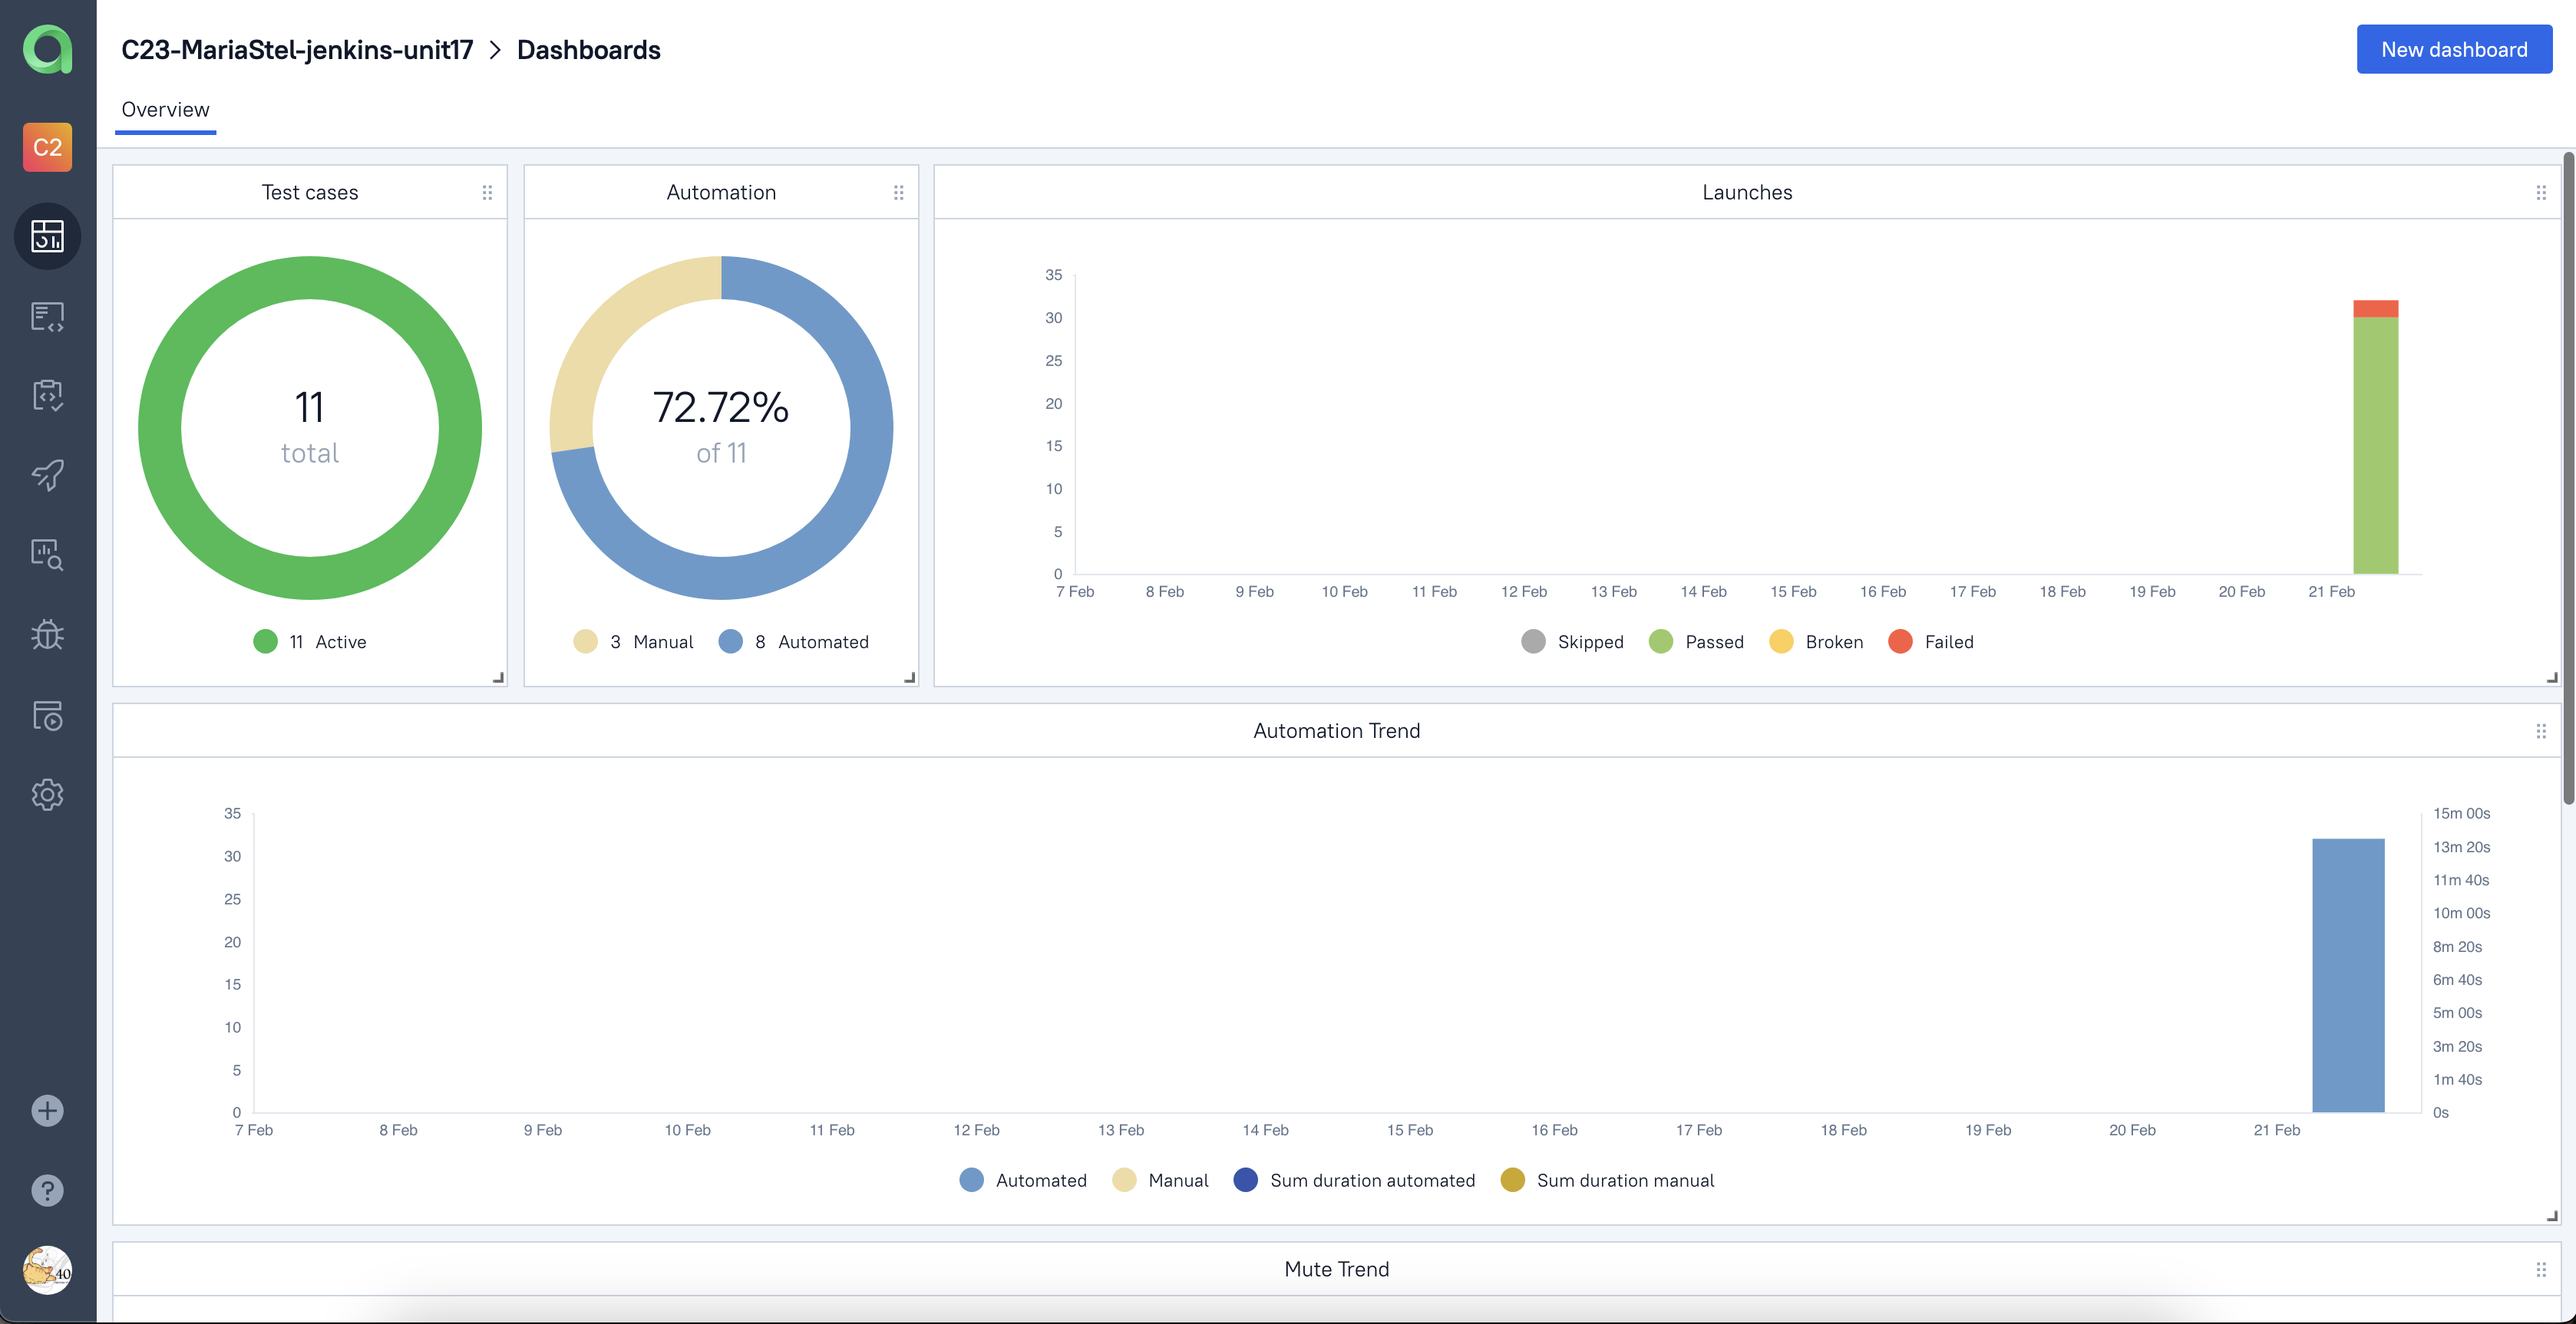
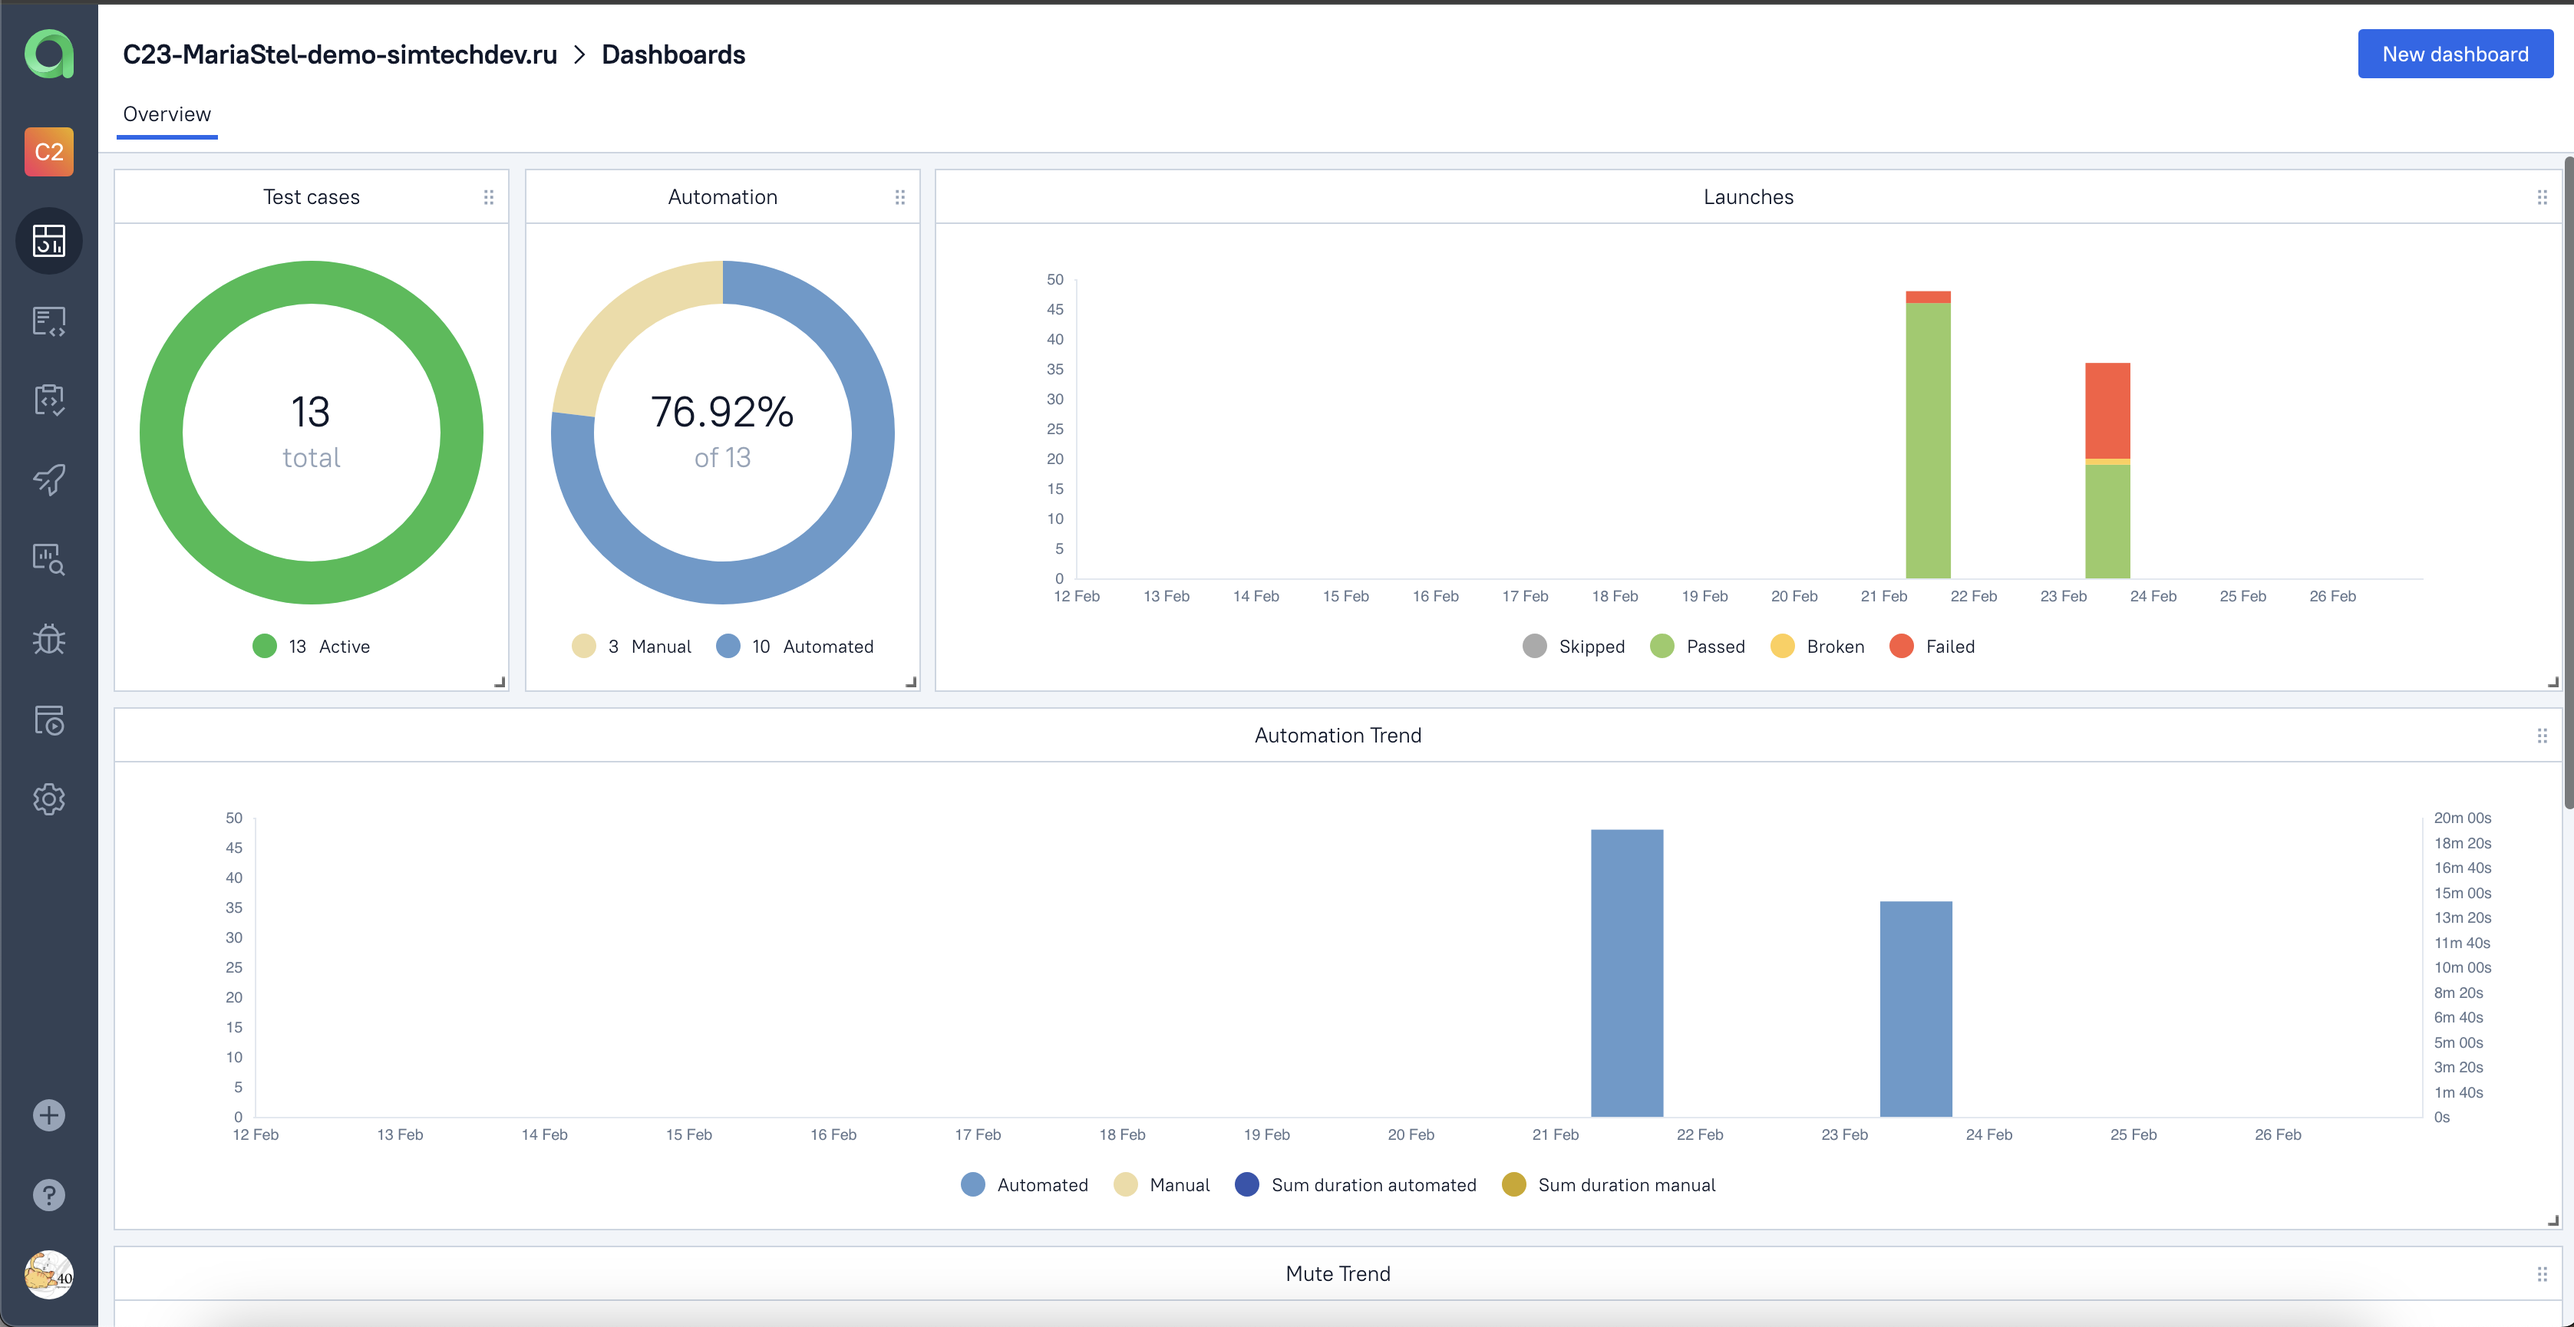
changed readme.md

diff --git a/README.md b/README.md
@@ -40,6 +40,15 @@ ____
 <a href="https://www.atlassian.com/ru/software/jira/"><img src="images/logo/Jira.svg" width="50" height="50"  alt="Jira"/></a>  
 </p>
 
+- Язык для написания тестов : [Java](https://www.java.com/ru/)
+- Фреймворк для модульного тестирования : [Junit5](https://github.com/junit-team/junit5)
+- Система автоматической сборки : [Gradle](https://github.com/gradle)
+- Удаленный запуск с выбором параметров для тестов реализован при помощи :  [Jenkins](https://www.jenkins.io/)
+- Отчеты о пройденных тестах формируются при помощи : [Allure](https://github.com/allure-framework)
+- Так же отчеты о тестировании отправляются в мессенджер при помощи <code>Telegram</code> бота
+- Реализована интеграция  с [Allure TestOps](https://qameta.io/)
+- Реализована интеграция с [Jira Software](https://www.atlassian.com/software/jira)
+
 ____
 <a id="cases"></a>
 ## <a name="Примеры автоматизированных тест-кейсов">**Примеры автоматизированных тест-кейсов:**</a>
@@ -56,10 +65,10 @@ ____
 
 ____
 <a id="jenkins"></a>
-## <img alt="Jenkins" height="25" src="images/logo/Jenkins.svg" width="25"/></a><a name="Сборка"></a>Сборка в [Jenkins](https://jenkins.autotests.cloud/job/C23-MariaStel-jenkins-unit17)</a>
+## <img alt="Jenkins" height="25" src="images/logo/Jenkins.svg" width="25"/></a><a name="Сборка"></a>Сборка в [Jenkins](https://jenkins.autotests.cloud/job/C23-MariaStel-demo-simtechdev.ru/)</a>
 ____
 <p align="center">  
-<a href="https://jenkins.autotests.cloud/job/C23-MariaStel-jenkins-unit17/"><img src="images/screen/jenkins.png" alt="Jenkins" width="950"/></a>  
+<a href="https://jenkins.autotests.cloud/job/C23-MariaStel-demo-simtechdev.ru/"><img src="images/screen/jenkins.png" alt="Jenkins" width="950"/></a>  
 </p>
 
 
@@ -68,6 +77,7 @@ ____
 - *browser (браузер, по умолчанию chrome)*
 - *browserVersion (версия браузера, по умолчанию 100.0)*
 - *browserSize (размер окна браузера, по умолчанию 1920x1080)*
+- *task (выбор группы тестов для запуска, по умолчанию все: test)*
 - *baseUrl (адрес тестируемого веб-сайта)*
 - *remoteUrl (логин, пароль и адрес удаленного сервера Selenoid)*
 
@@ -81,12 +91,12 @@ gradle clean test
 
 ***Удалённый запуск через Jenkins:***
 ```bash  
-clean X5Group_test
-"-Dbrowser=${browser}"
-"-DbrowserVersion=${browserVersion}"
-"-DbrowserSize=${browserSize}"
-"-DUrl=${baseUrl}"
-"-Dselenoid=${selenoid}"
+clean ${TASK}
+-Dbrowser=${browser}
+-DbrowserVersion=${browserVersion}
+-DbrowserSize=${browserSize}
+-DUrl=${baseUrl}
+-Dselenoid=${selenoid}
 ```
 ___
 <a id="allure"></a>
@@ -96,13 +106,13 @@ ___
 ### *Основная страница отчёта*
 
 <p align="center">  
-<img title="Allure Overview Dashboard" src="images/screen/allure-report-overview.png" width="850">  
+<img title="Allure Overview Dashboard" src="images/screen/allure-dashboard.png" width="850">  
 </p>  
 
 ### *Тест-кейсы*
 
 <p align="center">  
-<img title="Allure Tests" src="images/screen/allure-report-test-cases.png" width="850">  
+<img title="Allure Tests" src="images/screen/allure-test-cases.png" width="850">  
 </p>
 
 ### *Графики*
@@ -132,7 +142,7 @@ ____
 ### *Авто тест-кейсы*
 
 <p align="center">  
-<img title="Allure TestOps Tests" src="images/screen/automated-test-cases.png" width="850">  
+<img title="Allure TestOps Tests" src="images/screen/test-ops-automated-test-cases.png" width="850">  
 </p>
 
 ___
@@ -148,7 +158,7 @@ ____
 ## <img alt="Telegram" height="25" src="images/logo/Telegram.svg" width="25"/></a> Уведомление в Telegram при помощи бота
 ____
 <p align="center">  
-<img title="Telegram" src="images/screen/telegram.png" width="550">  
+<img title="Telegram" src="images/screen/telegram-ui.png" width="550">  
 </p>
 
 ____
